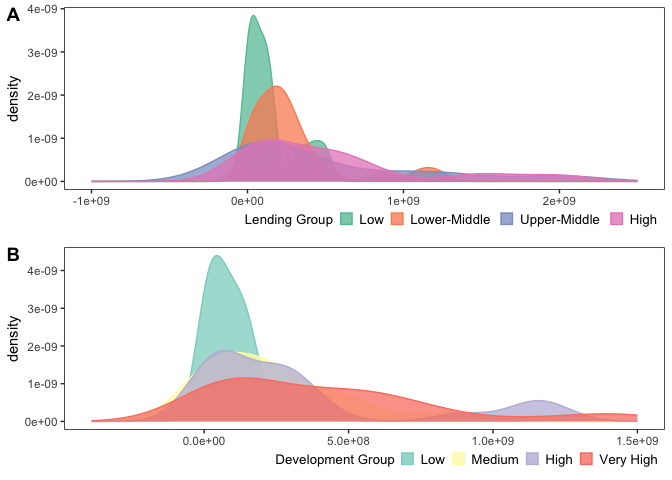
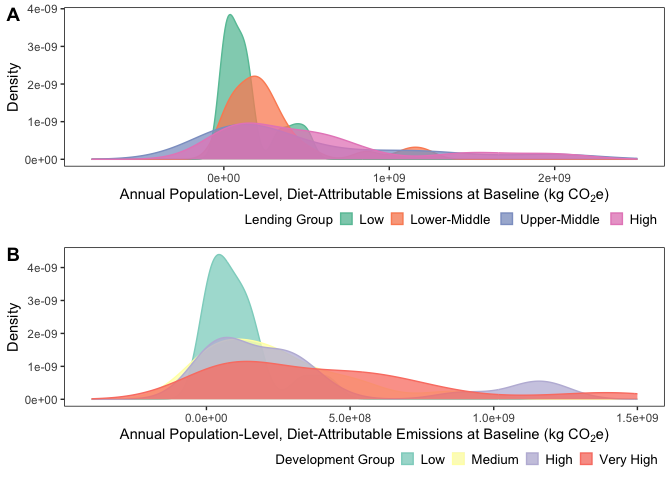
adjusted density-plot axes labels

diff --git a/scripts/analysis-script.md b/scripts/analysis-script.md
@@ -124,8 +124,10 @@ lending_group_distribution <- impact_data %>%
   geom_density(alpha=0.75) +
   scale_color_brewer(palette="Set2",name="Lending Group") +
   scale_fill_brewer(palette="Set2",name="Lending Group") + 
-  xlim(-1000000000,2500000000) + 
-  theme(legend.position="bottom",legend.justification="right",legend.box.spacing=unit(-15,"pt"),legend.key.size=unit(10,"pt"),panel.grid=element_blank(),panel.background=element_rect(fill="white"),panel.border=element_rect(fill=NA),legend.title=element_text(size=10),legend.text=element_text(size=10),plot.title=element_text(size=10))
+  xlim(-800000000,2500000000) + 
+  xlab(bquote('Annual Population-Level, Diet-Attributable Emissions at Baseline (kg CO'[2]*'e)')) +
+  ylab("Density") +
+  theme(legend.position="bottom",legend.justification="right",legend.box.spacing=unit(0,"pt"),legend.key.size=unit(10,"pt"),panel.grid=element_blank(),panel.background=element_rect(fill="white"),panel.border=element_rect(fill=NA),legend.title=element_text(size=10),legend.text=element_text(size=10),plot.title=element_text(size=10))
 ```
 
 ``` r
@@ -134,8 +136,10 @@ development_group_distribution <- impact_data %>%
   geom_density(alpha=0.75) +
   scale_color_brewer(palette="Set3",name="Development Group") +
   scale_fill_brewer(palette="Set3",name="Development Group") + 
-  xlim(-390000000,1500000000) +
-  theme(legend.position="bottom",legend.justification="right",legend.box.spacing=unit(-15,"pt"),legend.key.size=unit(10,"pt"),panel.grid=element_blank(),panel.background=element_rect(fill="white"),panel.border=element_rect(fill=NA),legend.title=element_text(size=10),legend.text=element_text(size=10),plot.title=element_text(size=10))
+  xlim(-400000000,1500000000) +
+  xlab(bquote('Annual Population-Level, Diet-Attributable Emissions at Baseline (kg CO'[2]*'e)')) +
+  ylab("Density") +
+  theme(legend.position="bottom",legend.justification="right",legend.box.spacing=unit(0,"pt"),legend.key.size=unit(10,"pt"),panel.grid=element_blank(),panel.background=element_rect(fill="white"),panel.border=element_rect(fill=NA),legend.title=element_text(size=10),legend.text=element_text(size=10),plot.title=element_text(size=10))
 ```
 
 ``` r
